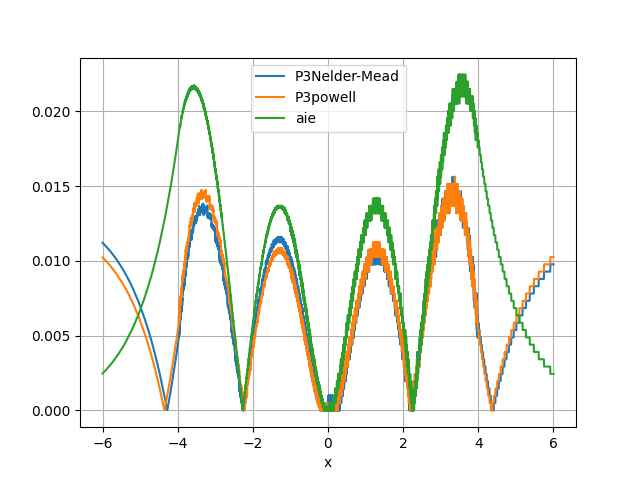
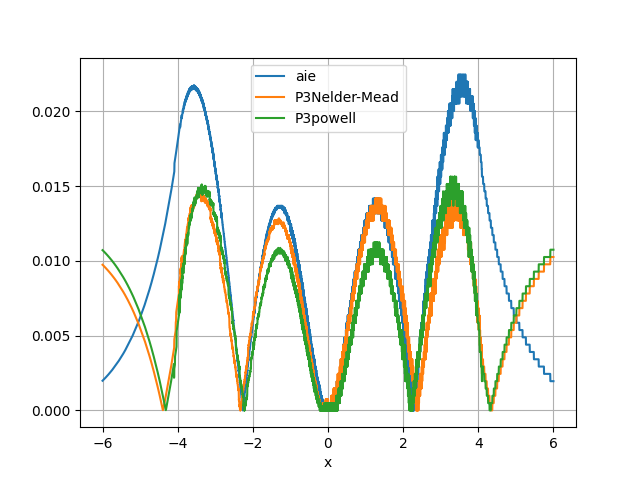
boo

Changed region(s): [[0.1562, 0.1562, 0.875, 0.875], [0.4688, 0.125, 0.625, 0.2812], [0.8438, 0.75, 0.875, 0.8125]]

diff --git a/Approx/sig.py b/Approx/sig.py
@@ -20,17 +20,19 @@ def Taylor_3(x) :
     return (1/2) + (1/4)*x - (1/48)*x**3 
 
 def faie(x,p):
-    tmpx = numpy.minimum(4,x)
-    tmpx = numpy.maximum(-4,tmpx)
+    #tmpx = x
+    tmpx = numpy.minimum(4.1, x)
+    tmpx = numpy.maximum(-4.1,tmpx)
     tmpx_abs = numpy.absolute(tmpx)
 
     return p[0] + p[1]*tmpx - p[2]*tmpx_abs*tmpx
 
 def F(x,p):
     
-    r = x*0 + p[0]
+    xx = x.astype(numpy.float64)
+    r = xx*0.0 + p[0]
     for i in range(1,p.size):
-        r += p[i]*x**i
+        r += p[i]*xx**i
     return r
 
 def cost(p, x, y ):
@@ -39,9 +41,10 @@ def cost(p, x, y ):
     #return numpy.mean(((y-faie(x,p).astype(numpy.float16))/y)**2)
 
 def cost_2(p, x, y ):
-    y[y==0] = 1
-    return numpy.sum((((y-F(x,p).astype(numpy.float16)))/y)**2)
-    #return numpy.mean(((y-faie(x,p).astype(numpy.float16))/y)**2)
+    #y[y==0] = 1
+    #return numpy.sum((((y-F(x,p).astype(numpy.float16)))/y)**2)
+    #return numpy.mean(((y-F(x,p).astype(numpy.float16)))**2)
+    return numpy.mean((y-F(x,p))**2)
     
 def C(p,x,y,cost_function = cost, method='powell'):
     
@@ -55,23 +58,34 @@ def C(p,x,y,cost_function = cost, method='powell'):
     return res
 
 
+
+def s(x):
+    return (-.67436811832e-5+(.2468149110712040+(.583691066395175e-1+.3357335044280075e-1*x)*x)*x)/(.2464845986383725+(.609347197060491e-1+(.1086202599228572+.2874707922475963e-1*x)*x)*x)
+
+def  fast_tanh(x):
+  x2 = x * x;
+  a = x * (135135.0 + x2 * (17325.0 + x2 * (378.0 + x2)));
+  b = 135135.0 + x2 * (62370.0 + x2 * (3150.0 + x2 * 28.0));
+  return a / b;
+
+
 def me(ref,y):
     return numpy.fabs(ref - y)
 def mer(ref,y):
     y[ref==0] = 1
     ref[ref==0] = 1 
-    return numpy.fabs((ref - y)/ref)
+    return (ref - y)/ref
 
 
 if __name__ == '__main__':
 
 
-    #import pdb;pdb.set_trace()
+    import pdb;
 
 
 
     import matplotlib.pyplot as plt
-    x = numpy.linspace(-6, 6, 121*1000).astype(numpy.float16)
+    x = numpy.linspace(-6, 6, 121*500).astype(numpy.float16)
     y = scipy.special.expit(x).astype(numpy.float16)
 
     p = numpy.array([ (1/2), (1/4), (1/32)] )#, (1/480)])
@@ -91,10 +105,25 @@ if __name__ == '__main__':
     y_powell = faie(x,res.x.astype(numpy.float16)).astype(numpy.float16)
 
 
+    pdb.set_trace()
+    ## looking for different coefficients 
     
+    #y2_powell = fast_tanh(x[x>0]/2)
+    #plt.plot(x[x>0],  y2_powell, label='P3'+'Nelder-Mead')
+    #plt.plot(x[x>0],  scipy.special.expit(x[x>0]).astype(numpy.float16), label='R')
+    
+    plt.plot(x,  me(y,y_aie), label='aie')
     plt.plot(x,  me(y,y_nm), label='P3'+'Nelder-Mead')
     plt.plot(x,  me(y,y_powell), label='P3'+'powell')
-    plt.plot(x,  me(y,y_aie), label='aie')
+
+    #plt.plot(x,  y_nm, label='P3'+'Nelder-Mead')
+    #plt.plot(x,  y_powell, label='P3'+'powell')
+    #plt.plot(x,  y, label='Ref')
+
+    print(numpy.max(me(y,y_powell)))
+    print(numpy.max(me(y,y_nm)))
+    #
+    #plt.plot(x,  me(y,y2_powell), label='5')
 
     
 
